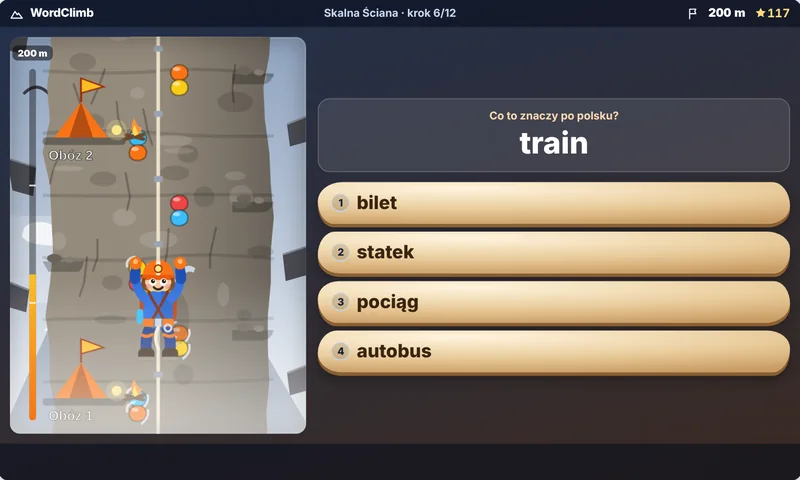
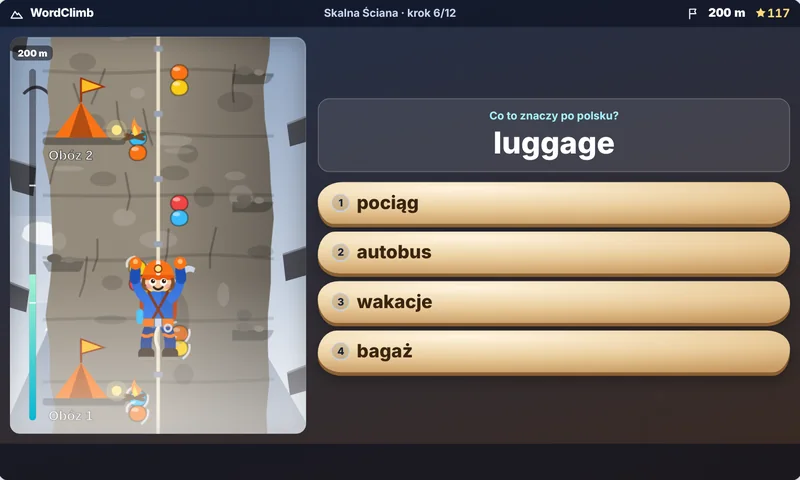
WordClimb: morski kolor akcentu zamiast czerwono-pomarańczowego
Claude-Session: https://claude.ai/code/session_01MyUW9fQB8JttoV36Ji4mpt

diff --git a/index.html b/index.html
@@ -625,9 +625,9 @@ html[data-season=winter] .hero::after{inset:0;width:auto;height:auto;border-radi
 .nb:active,.gbtn:active,.gc button:active{transform:scale(.95);transition-duration:.08s}
 @media(hover:hover){.gc:not(.soon){transition:transform .3s cubic-bezier(.34,1.56,.64,1),box-shadow .2s var(--ease-out)}.gc:not(.soon):hover{transform:translateY(-3px);box-shadow:0 12px 26px rgba(22,35,59,.14)}}
 /* ===== WordClimb ===== */
-.gc.g-cl{--g:#c2410c;--gt:#ffedd5;--gd:#9a3412}
-.cn-seg button.on.g-cl{background:#c2410c}
-.gpn.g-cl{border-left:4px solid #c2410c}.gpn.g-cl .gph h4 svg{color:#c2410c}
+.gc.g-cl{--g:#0e7490;--gt:#cffafe;--gd:#155e75}
+.cn-seg button.on.g-cl{background:#0e7490}
+.gpn.g-cl{border-left:4px solid #0e7490}.gpn.g-cl .gph h4 svg{color:#0e7490}
 .cl-stage{background:linear-gradient(165deg,#22304c,#3a2a22)}
 .cl-stage .gs-body{position:relative;display:grid;grid-template-columns:minmax(120px,38%) 1fr;gap:14px;align-items:stretch;justify-content:stretch;padding:12px 14px;overflow:hidden}
 .cl-scene{position:relative;height:100%;min-height:270px;border-radius:12px;overflow:hidden;background:linear-gradient(180deg,var(--s1),var(--s2));box-shadow:inset 0 0 0 2px rgba(255,255,255,.18)}
@@ -645,11 +645,11 @@ html[data-season=winter] .hero::after{inset:0;width:auto;height:auto;border-radi
 .cl-alt{position:absolute;left:22px;top:22px;bottom:22px;width:34px;z-index:2;display:flex;flex-direction:column;align-items:center;gap:4px;color:#fff;font:800 11px "Figtree",system-ui,sans-serif;pointer-events:none}
 .cl-alt b{padding:2px 6px;border-radius:6px;background:rgba(0,0,0,.5);white-space:nowrap}
 .cl-alt .bar{position:relative;flex:1;width:8px;border-radius:5px;background:rgba(0,0,0,.4);overflow:hidden}
-.cl-alt .bar i{position:absolute;left:0;right:0;bottom:0;background:linear-gradient(0deg,#f97316,#fbbf24);transition:height .65s}
+.cl-alt .bar i{position:absolute;left:0;right:0;bottom:0;background:linear-gradient(0deg,#06b6d4,#a7f3d0);transition:height .65s}
 .cl-alt .bar u{position:absolute;left:0;right:0;height:2px;background:#fff;opacity:.8}
 .cl-q{display:flex;flex-direction:column;justify-content:center;gap:12px;min-width:0}
 .cl-card{padding:12px 14px;text-align:center;color:#fff;background:rgba(255,255,255,.1);border:1px solid rgba(255,255,255,.22);border-radius:14px}
-.cl-card small{display:block;color:#ffd9b0;font-size:13px;font-weight:700}
+.cl-card small{display:block;color:#a5f3fc;font-size:13px;font-weight:700}
 .cl-w{display:block;margin-top:2px;font:800 clamp(24px,4vw,36px) "Figtree",system-ui,sans-serif;overflow-wrap:anywhere}
 .cl-holds{display:flex;flex-direction:column;gap:12px}
 .cl-hold{position:relative;min-height:58px;padding:8px 16px 8px 46px;border:0;color:#3a2410;text-align:left;font:800 clamp(17px,2.4vw,22px) "Figtree",system-ui,sans-serif;cursor:pointer;touch-action:manipulation;background:radial-gradient(120% 90% at 30% 15%,#fff4de,#e9cc9c 55%,#c99c64);box-shadow:0 4px 0 #8a5f33,0 8px 14px rgba(0,0,0,.3);transition:transform .12s}
@@ -665,7 +665,7 @@ html[data-season=winter] .hero::after{inset:0;width:auto;height:auto;border-radi
 .cl-ov{position:absolute;inset:0;z-index:5;display:flex;flex-direction:column;align-items:center;justify-content:center;gap:10px;padding:18px;text-align:center;color:#fff;background:rgba(15,22,40,.97)}
 .cl-ov h3{margin:0;font:800 clamp(22px,3.4vw,30px) "Figtree",system-ui,sans-serif}
 .cl-ov p{margin:0;max-width:440px;color:#e3ebfa;font-size:15px}
-.cl-ov button{height:48px;padding:0 30px;border:0;border-radius:12px;background:#ea580c;color:#fff;font:800 16px "Figtree",system-ui,sans-serif;cursor:pointer;touch-action:manipulation}
+.cl-ov button{height:48px;padding:0 30px;border:0;border-radius:12px;background:#0e7490;color:#fff;font:800 16px "Figtree",system-ui,sans-serif;cursor:pointer;touch-action:manipulation}
 .cl-ov .cn-pts{color:#fff}
 .cl-words{max-height:92px;overflow:auto;padding:6px 12px;border-radius:10px;background:rgba(255,255,255,.08);font-size:13px;color:#dbe6fb}
 @media(max-width:699px){.cl-stage .gs-body{grid-template-columns:minmax(104px,34%) 1fr;gap:10px;padding:10px}.cl-scene{min-height:300px}.cl-alt{left:16px;top:16px;bottom:16px}.cl-hold{min-height:56px}}
@@ -741,11 +741,11 @@ html[data-season=winter] .hero::after{inset:0;width:auto;height:auto;border-radi
 .cl-tiles{display:flex;gap:8px;width:100%;max-width:440px}
 .cl-tiles>div{flex:1;padding:8px 6px;border-radius:14px;background:rgba(255,255,255,.1);border:1px solid rgba(255,255,255,.2)}
 .cl-tiles b{display:block;font:800 clamp(18px,2.6vw,24px) "Figtree",system-ui,sans-serif;color:#fff}
-.cl-tiles small{color:#ffd9b0;font-size:12px;font-weight:700}
+.cl-tiles small{color:#a5f3fc;font-size:12px;font-weight:700}
 .cl-pts{display:flex;align-items:center;gap:10px;padding:6px 22px;border-radius:999px;background:linear-gradient(180deg,#fbbf24,#f59e0b);color:#3a2410;box-shadow:0 4px 0 #b45309}
 .cl-pts span{font-weight:800;font-size:15px}.cl-pts b{font:800 28px "Figtree",system-ui,sans-serif}
 .cl-pts svg{width:26px;height:26px;color:#7c2d12}
-.cl-wh{margin:4px 0 0;color:#ffd9b0;font:800 14px "Figtree",system-ui,sans-serif;letter-spacing:.3px}
+.cl-wh{margin:4px 0 0;color:#a5f3fc;font:800 14px "Figtree",system-ui,sans-serif;letter-spacing:.3px}
 .cl-wl{display:grid;grid-template-columns:repeat(2,minmax(0,1fr));gap:8px;width:100%;max-width:480px;flex:1 1 auto;min-height:90px;overflow:auto;padding:2px 2px 6px;align-content:start}
 .cl-wc{display:flex;align-items:center;justify-content:space-between;gap:6px;padding:7px 10px;text-align:left;border-radius:16px 12px 16px 12px/12px 16px 12px 16px;color:#3a2410;background:radial-gradient(120% 90% at 30% 15%,#fff4de,#e9cc9c 55%,#c99c64);box-shadow:0 3px 0 #8a5f33}
 .cl-wc div{min-width:0}.cl-wc b{display:block;font:800 15px "Figtree",system-ui,sans-serif;overflow-wrap:anywhere}.cl-wc span{font-size:13px;color:#6b4a2b;overflow-wrap:anywhere}
@@ -764,7 +764,7 @@ html[data-season=winter] .hero::after{inset:0;width:auto;height:auto;border-radi
 .cl-w.gap{font-size:clamp(17px,2.4vw,22px);line-height:1.3}
 .cl-hold.h3{border-radius:24px 28px 22px 30px/28px 22px 30px 24px}
 .cl-holds.n4{gap:9px}.cl-holds.n4 .cl-hold{min-height:50px;padding-top:6px;padding-bottom:6px}
-.cl-gain{color:#ffd9b0;font-size:13px;font-weight:700}
+.cl-gain{color:#a5f3fc;font-size:13px;font-weight:700}
 </style>
 </head>
 <body>
